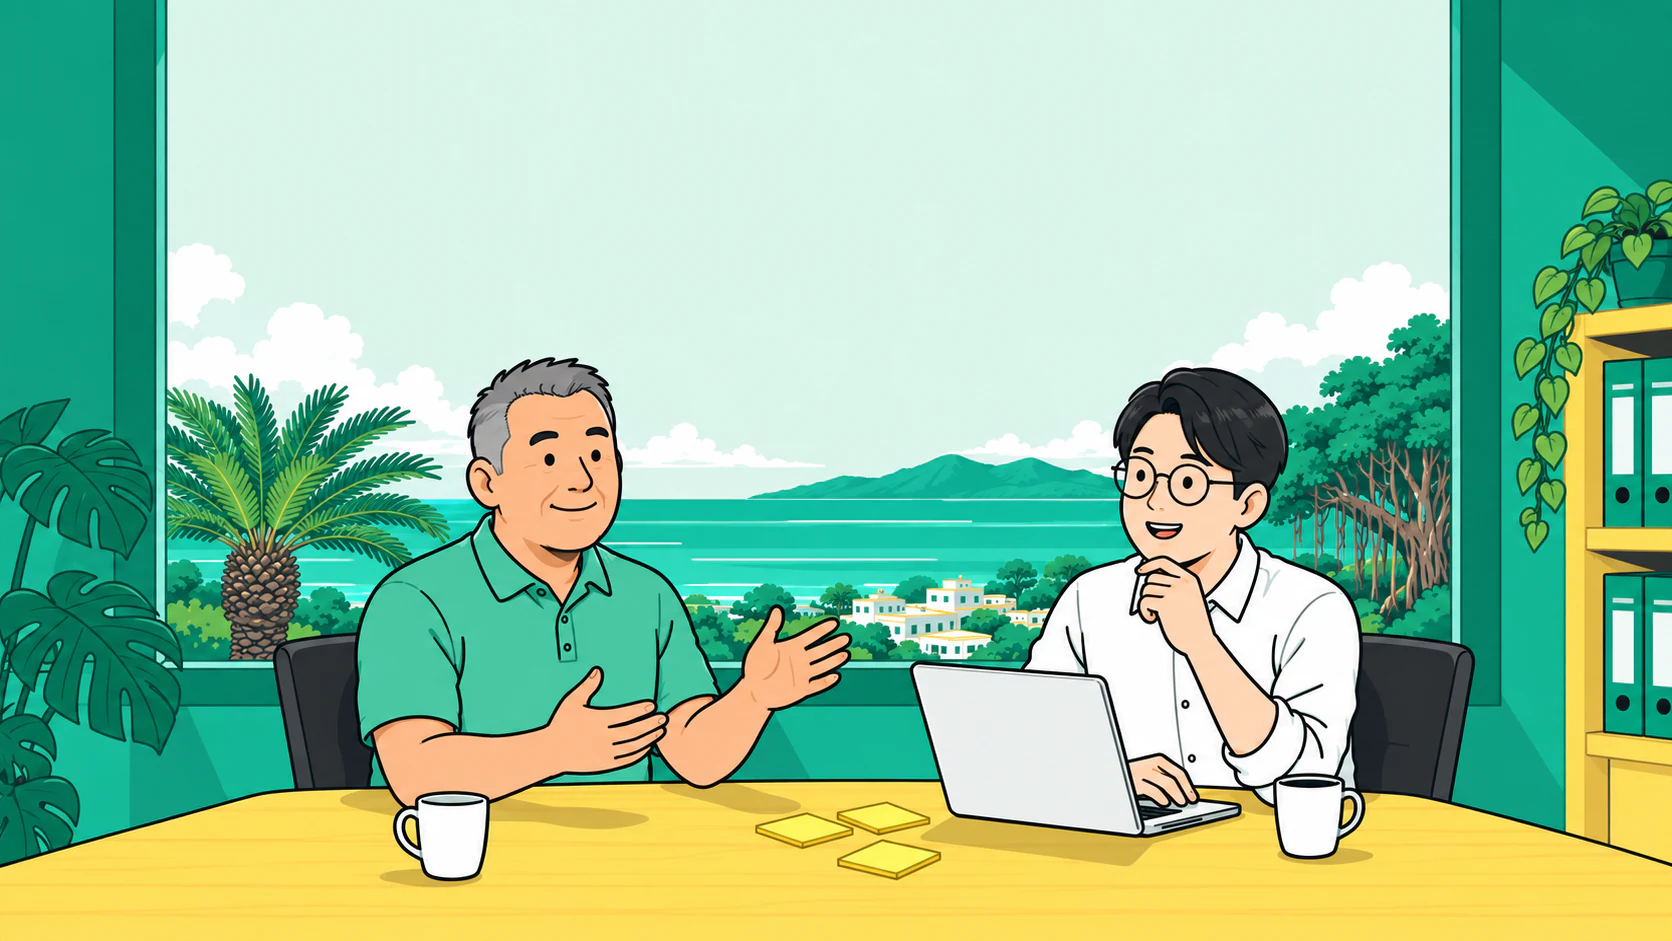
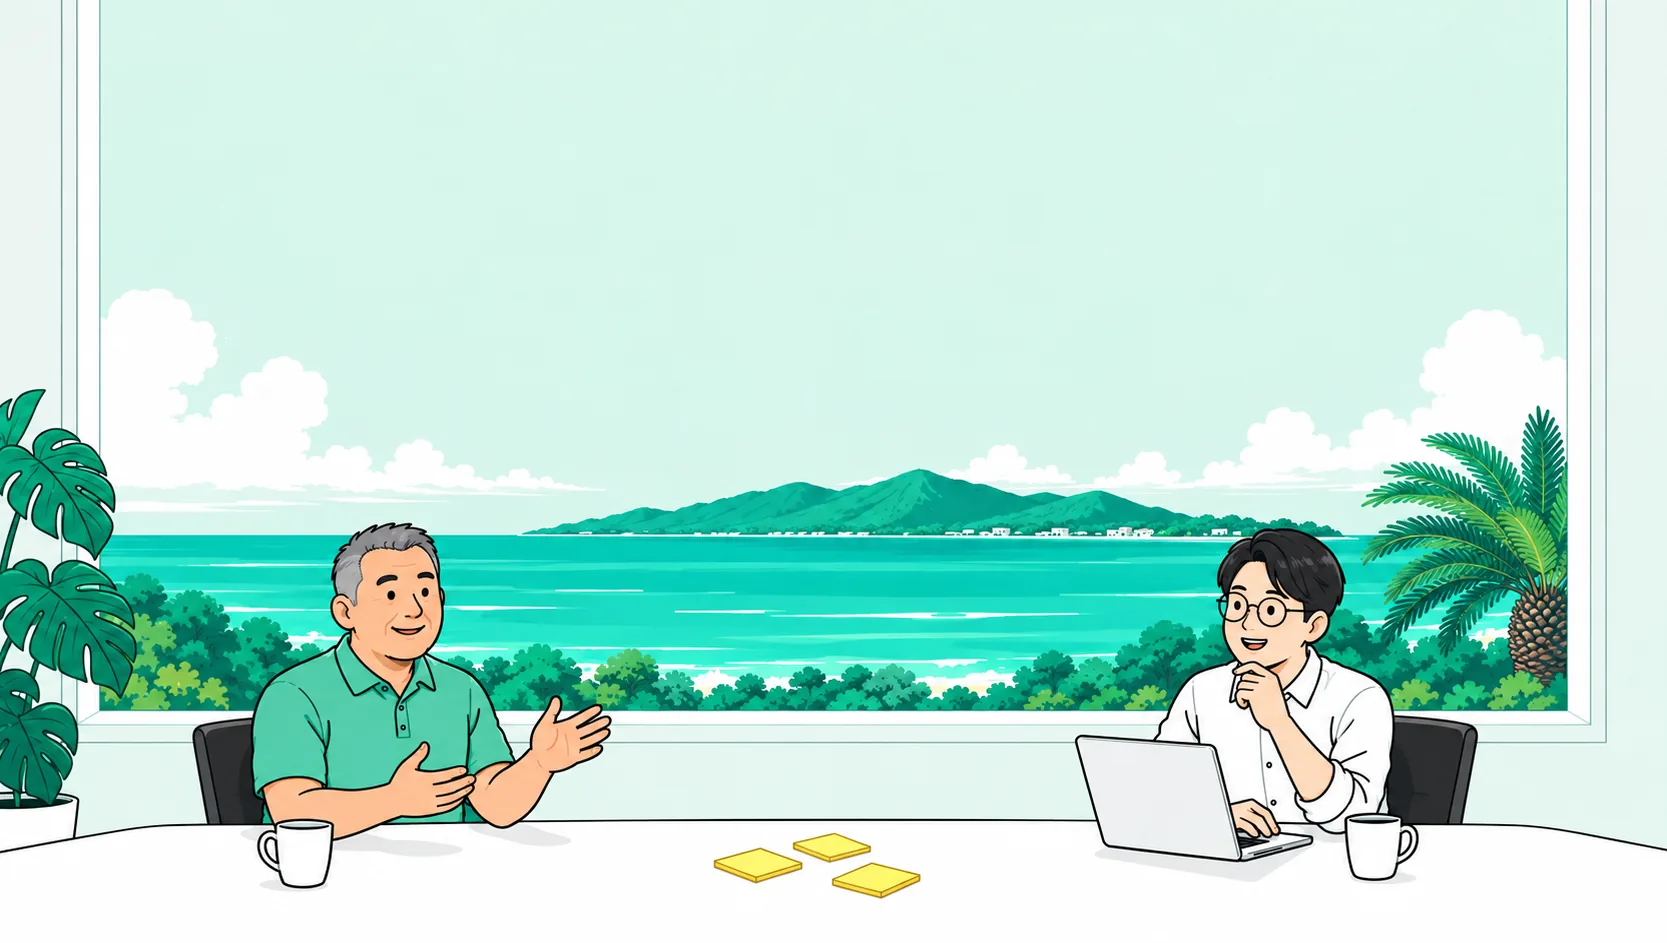
絵の描き直し: ヒーローとフッターを人物が字に被らない位置で描き直し・スマホ用の絵を足す・特設バナーを場面の絵に
- ヒーロー S01・S02（PC）とフッター H01 を、顔を左右の下側に寄せた明るい絵に差し替え
- スマホ用のヒーロー3枚とフッター1枚を足した（srcSp）
- picture を display: contents にすると Chromium で絵が描かれなかったので枠いっぱいの箱に直す
- 特設バナー K01・K02 を場面の絵にし、下 60% に敷いて上端を地の色へ溶かす
- 字の下の帯を薄くした（明るい絵の上で灰色のもやに見えていた）

diff --git a/src/components/top/Hero.tsx b/src/components/top/Hero.tsx
@@ -5,9 +5,9 @@ import { setupGsap, gsap, EASE, isReduced } from "./motion";
 import Slot from "./Slot";
 
 const SLIDES = [
-  { id: "S01", label: "奄美の会社の事務所で、社長と代表が打ち合わせをしている場面（横長）", tone: "a" as const, src: "/images/top/hero-s01.webp", alt: "海の見える事務所で、社長とALPACAの顧問が打ち合わせをしているイラスト", posSp: "54% 50%" },
-  { id: "S02", label: "社員がスマホでAIに話しかけ、仕事を頼んでいる場面（横長）", tone: "b" as const, src: "/images/top/hero-s02.webp", alt: "事務の社員がスマホのAIに仕事を頼み、現場の社員がのぞき込んでいるイラスト", posSp: "52% 50%" },
-  { id: "S03", label: "奄美大島の海と、有屋町の街並み（横長）", tone: "c" as const, src: "/images/top/hero-s03.webp", alt: "奄美大島の海と、坂の上から見た町並みのイラスト", posSp: "50% 50%" },
+  { id: "S01", label: "奄美の会社の事務所で、社長と代表が打ち合わせをしている場面（横長）", tone: "a" as const, src: "/images/top/hero-s01.webp", srcSp: "/images/top/hero-s01-sp.webp", alt: "海の見える事務所で、社長とALPACAの顧問が打ち合わせをしているイラスト" },
+  { id: "S02", label: "社員がスマホでAIに話しかけ、仕事を頼んでいる場面（横長）", tone: "b" as const, src: "/images/top/hero-s02.webp", srcSp: "/images/top/hero-s02-sp.webp", alt: "事務の社員がスマホのAIに仕事を頼み、現場の社員が自分のスマホで受け取っているイラスト" },
+  { id: "S03", label: "奄美大島の海と、有屋町の街並み（横長）", tone: "c" as const, src: "/images/top/hero-s03.webp", srcSp: "/images/top/hero-s03-sp.webp", alt: "奄美大島の海と、坂の上から見た町並みのイラスト" },
 ];
 
 const VISIT_KEY = "tp-visited";
@@ -180,7 +180,7 @@ export default function Hero() {
               >
                 <div className="tp-hero__kb">
                   {/* 2・3枚目は切り替えが始まってから読む（最初の読み込みを 1枚目だけにする。1枚目が見えている 5秒の間に届く） */}
-                  <Slot id={s.id} label={s.label} tone={s.tone} src={i === 0 || started ? s.src : undefined} alt={s.alt} cover posSp={s.posSp} className="tp-hero__slot" eager={i === 0} />
+                  <Slot id={s.id} label={s.label} tone={s.tone} src={i === 0 || started ? s.src : undefined} srcSp={s.srcSp} alt={s.alt} cover className="tp-hero__slot" eager={i === 0} />
                 </div>
               </div>
             ))}

diff --git a/src/components/top/top.css b/src/components/top/top.css
@@ -166,8 +166,13 @@ html:has(.tp) {
   height: 100%;
   object-fit: contain;
 }
+/* display: contents だと Chromium で絵が描かれなかった（大きさは取れているのに枠の地の色だけが見えた）。枠いっぱいの箱にする */
 .tp-slot__pic {
-  display: contents;
+  position: relative;
+  z-index: 1;
+  display: block;
+  width: 100%;
+  height: 100%;
 }
 /* 場面の絵: 枠いっぱいに敷き、切り抜き位置は --tp-pos（スマホは --tp-pos-sp） */
 .tp-slot.is-cover .tp-slot__img {
@@ -962,8 +967,7 @@ html.tp-revisit .tp-veil {
   inset: 0;
   z-index: 2;
   background:
-    radial-gradient(ellipse 58% 24% at 50% 47%, rgba(3, 52, 41, 0.46), rgba(3, 52, 41, 0.2) 60%, rgba(3, 52, 41, 0) 100%),
-    rgba(3, 52, 41, 0.06);
+    radial-gradient(ellipse 58% 24% at 50% 47%, rgba(3, 52, 41, 0.3), rgba(3, 52, 41, 0.12) 60%, rgba(3, 52, 41, 0) 100%);
   pointer-events: none;
 }
 .tp-hero__copy {
@@ -1846,12 +1850,13 @@ html.tp-revisit .tp-veil {
   font-size: 1.8rem;
   letter-spacing: 0.01em;
 }
+/* 絵は幅いっぱい・下 60% に敷き、上端を地の色へ溶かす（3周目の描き直し）。上の文字は地の色の上に乗るので読める */
 .tp-bnr__img {
   position: absolute;
-  right: 1.2rem;
-  bottom: 0.8rem;
-  width: 10.5rem;
-  height: 10.5rem;
+  inset: auto 0 0;
+  height: 60%;
+  -webkit-mask-image: linear-gradient(180deg, transparent 0%, #000 26%);
+  mask-image: linear-gradient(180deg, transparent 0%, #000 26%);
   transition:
     scale 0.25s ease,
     opacity 0.25s ease;
@@ -1881,12 +1886,6 @@ html.tp-revisit .tp-veil {
   }
   .tp-bnr__small {
     font-size: 1rem;
-  }
-  .tp-bnr__img {
-    right: 0.6rem;
-    bottom: 0.4rem;
-    width: 6.4rem;
-    height: 6.4rem;
   }
 }
 
@@ -2416,8 +2415,7 @@ html.tp-revisit .tp-veil {
   inset: 0;
   z-index: 2;
   background:
-    radial-gradient(ellipse 56% 26% at 50% 46%, rgba(3, 52, 41, 0.46), rgba(3, 52, 41, 0.2) 60%, rgba(3, 52, 41, 0) 100%),
-    rgba(3, 52, 41, 0.06);
+    radial-gradient(ellipse 56% 26% at 50% 46%, rgba(3, 52, 41, 0.3), rgba(3, 52, 41, 0.12) 60%, rgba(3, 52, 41, 0) 100%);
   pointer-events: none;
 }
 .tp-fhero__copy {

diff --git a/src/app/page.tsx b/src/app/page.tsx
@@ -327,7 +327,7 @@ export default function Home() {
             <span className="tp-bnr__big">{ph("まずは30分、話してみる")}</span>
           </span>
           <span className="tp-bnr__img">
-            <Slot id="K01" label="手を振る顧問" src={man("advisor-wave")} alt="" />
+            <Slot id="K01" label="顧問が社長を事務所に迎え入れる場面" src="/images/top/scene/k01.webp" alt="" cover pos="50% 40%" />
           </span>
         </a>
         <a href={SITE.contact.instagramUrl} className="tp-bnr tp-bnr--sub" target="_blank" rel="noopener noreferrer">
@@ -336,7 +336,7 @@ export default function Home() {
             <span className="tp-bnr__big">{SITE.contact.instagramHandle}</span>
           </span>
           <span className="tp-bnr__img">
-            <Slot id="K02" label="スマホを持つ社員" src={man("staff-phone")} alt="" />
+            <Slot id="K02" label="事務の社員がスマホで奄美の海を撮る場面" src="/images/top/scene/k02.webp" alt="" cover pos="50% 50%" />
           </span>
         </a>
       </section>
@@ -435,7 +435,7 @@ export default function Home() {
       {/* 12〜14 フッター */}
       <footer className="tp-footer" id="tp-footer">
         <div className="tp-fhero">
-          <Slot id="H01" label="奄美の海辺と、打ち合わせを終えて笑う社長（横長）" tone="c" src="/images/top/scene/h01.webp" cover posSp="52% 50%" className="tp-fhero__slot" />
+          <Slot id="H01" label="奄美の海辺と、打ち合わせを終えて笑う社長（横長）" tone="c" src="/images/top/scene/h01.webp" srcSp="/images/top/scene/h01-sp.webp" cover className="tp-fhero__slot" />
           <Reveal as="p" className="tp-fhero__copy">
             {FOOT_COPY.map((line, li) => (
               <span key={li} className="tp-fhero__line">
